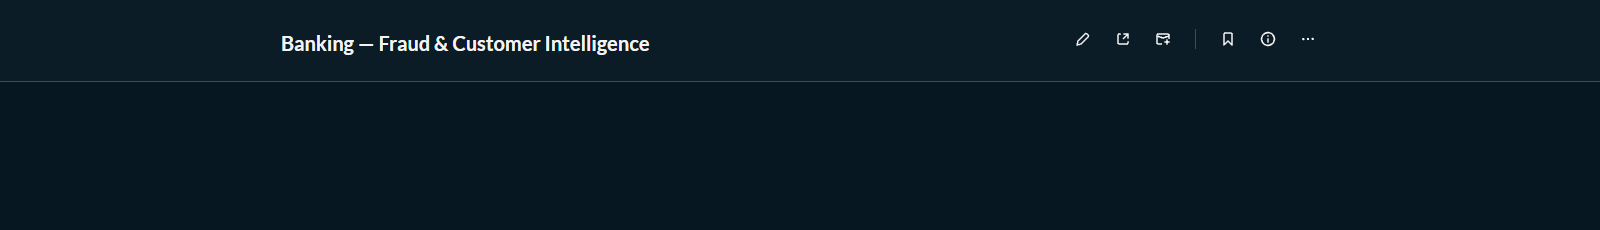
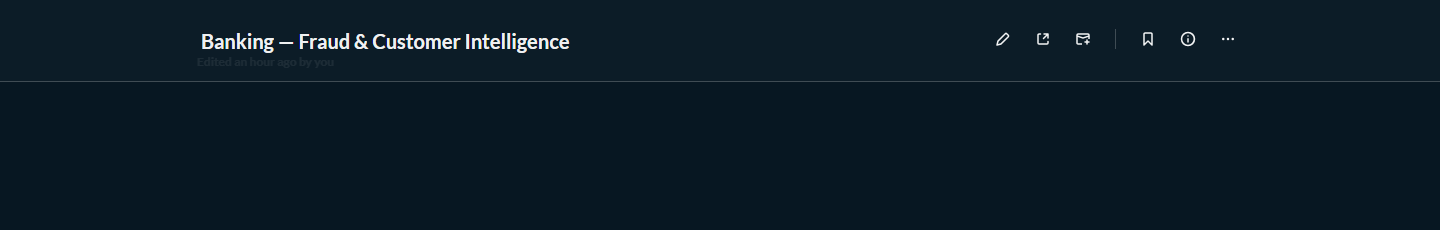
docs: add full scroll-based dashboard screenshots (top/bottom/part splits)

Changed region(s): [[0.125, 0.1522, 0.4062, 0.2435], [0.6562, 0.1217, 0.8438, 0.213]]

diff --git a/README.md b/README.md
@@ -1,4 +1,4 @@
-# 🏦 Azure Banking Analytics Platform
+# 🏦 Azure Banking Analytics Platform
 
 <div align="center">
 
@@ -70,7 +70,8 @@ The analytical layer is powered by **Metabase**, delivering self-service BI and 
 > Comprehensive operational surveillance tracking transaction volumes, revenue channels, ticket sizes, and merchant breakdowns.
 
 ![Executive KPIs](assets/kpis_transactions.png)
-![Dashboard 1: Transactions & Channels](assets/metabase_transactions_dashboard.png)
+![Dashboard 1: Transactions & Channels � Top](assets/metabase_transactions_dashboard_top.png)
+![Dashboard 1: Transactions & Channels � Bottom](assets/metabase_transactions_dashboard_bottom.png)
 
 - **Executive KPIs**: Total Transactions (49,650), Total Volume ($12.45M), Average Ticket Size ($250), and Active Global Markets (10).
 - **Daily Volume Trend**: Smooth time-series line chart of daily spend across the full year.
@@ -85,7 +86,8 @@ The analytical layer is powered by **Metabase**, delivering self-service BI and 
 > Advanced risk intelligence tracking fraud velocity, geographic loss exposure, and customer portfolio risk.
 
 ![Fraud KPIs](assets/kpis_fraud.png)
-![Dashboard 2: Fraud & Customer Intelligence](assets/metabase_fraud_dashboard.png)
+![Dashboard 2: Fraud & Customer Intelligence � Top](assets/metabase_fraud_dashboard_top.png)
+![Dashboard 2: Fraud & Customer Intelligence � Bottom](assets/metabase_fraud_dashboard_bottom.png)
 
 - **Risk & Loss KPIs**: Overall Fraud Rate (2.33%), Total Fraud Losses ($289K), Total Incidents (1,160), and Affected Customers.
 - **Attack Vector Profiling**: Losses segmented by country (FR leads at 2.71%) and vulnerable banking channels.
@@ -98,8 +100,9 @@ The analytical layer is powered by **Metabase**, delivering self-service BI and 
 
 > World-map heatmaps, monthly trend analysis, channel diagnostics, and merchant revenue vs fraud decomposition.
 
-![Dashboard 3: Advanced Analytics — Top](assets/metabase_advanced_dashboard_top.png)
-![Dashboard 3: Advanced Analytics — Bottom](assets/metabase_advanced_dashboard_bottom.png)
+![Dashboard 3: Advanced Analytics - Part 1](assets/metabase_advanced_dashboard_part1.png)
+![Dashboard 3: Advanced Analytics - Part 2](assets/metabase_advanced_dashboard_part2.png)
+![Dashboard 3: Advanced Analytics - Part 3](assets/metabase_advanced_dashboard_part3.png)
 
 - **World Maps**: Transaction volume heatmap (blue gradient) and Fraud loss heatmap (amber to red) across all 10 countries.
 - **Monthly Fraud Trend**: Dual-metric line chart tracking Fraud Loss (USD) vs Fraud Case count over time.
@@ -178,9 +181,13 @@ azure_data_project/
 │
 ├── assets/                            # Architecture diagrams & dashboard screenshots
 │   ├── diagram.png
-│   ├── metabase_transactions_dashboard.png
-│   ├── metabase_fraud_dashboard.png
-│   ├── metabase_advanced_dashboard.png
+│   ├── metabase_transactions_dashboard_top.png
+│   ├── metabase_transactions_dashboard_bottom.png
+│   ├── metabase_fraud_dashboard_top.png
+│   ├── metabase_fraud_dashboard_bottom.png
+│   ├── metabase_advanced_dashboard_part1.png
+│   ├── metabase_advanced_dashboard_part2.png
+│   └── metabase_advanced_dashboard_part3.png
 │   ├── kpis_transactions.png
 │   └── kpis_fraud.png
 │
